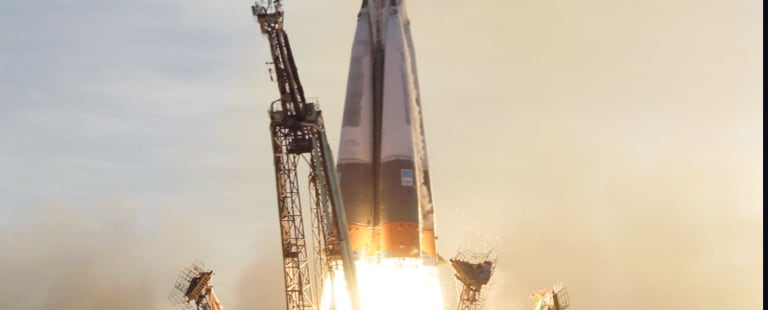
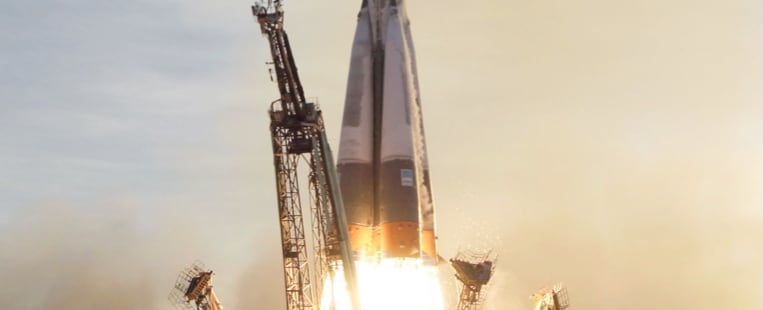
technology build out completed

diff --git a/src/Styles/Technology.module.scss b/src/Styles/Technology.module.scss
@@ -22,25 +22,47 @@
     .imageContainer {
         margin-top: 32px;
         height: 170px;
-        width: 100%;
         img {
             height: 100%;
-            left: 50%;
-            margin-left: -50vw;
-            margin-right: -50vw;
-            max-width: 100vw;
-            position: relative;
-            right: 50%;
-            width: 100vw;
+            width: 100%;
         }
     }
 
     .technologySelect {
+        width: 152px;
+        display: flex;
+        justify-content: space-between;
+        margin-top: 32px;
+        margin-left: auto;
+        margin-right: auto;
         
         .selectButton {
             height: 40px;
             width: 40px;
         }
+    }
+
+    .technologyCopy {
+        margin-top: 26px;
+        margin-left: 24px;
+        margin-right: 24px;
+        text-align: center;
+        h3 {
+            margin-top: 8px;
+            font-size: 24px;
+            text-transform: uppercase;
+            color: rgba(255,255,255,1);
+            line-height: 27.5px;
+        }
+
+        h5 {
+            font-size: 14px;
+        }
+
+        p {
+            margin-top: 16px;
+        }
+
     }
 
 }

diff --git a/src/App.scss b/src/App.scss
@@ -1,4 +1,4 @@
-@import url('https://fonts.googleapis.com/css2?family=Barlow+Condensed:wght@400;700&family=Barlow:wght@400;700&family=Bellefair&display=swap');
+@import url('https://fonts.googleapis.com/css2?family=Barlow+Condensed:wght@300;400;700&family=Barlow:wght@300;400;700&family=Bellefair&display=swap');
 
 // @import url('https://fonts.googleapis.com/css2?family=Barlow&family=Barlow+Condensed&family=Bellefair&display=swap');
 
@@ -76,7 +76,7 @@ h5 {
     font-family: 'Barlow Condensed', sans-serif;
     font-size: 28px;
     letter-spacing: 4px;
-    font-weight: 400;
+    font-weight: 300;
     line-height: 34px;
     color: rgba(208,214,249, 1);
 }
@@ -99,7 +99,7 @@ h5 {
 p {
     font-family: 'Barlow', sans-serif;
     font-size: 18px;
-    font-weight: 400;
+    font-weight: 300;
     line-height: 32px;
     color: rgba(208,214,249, 1);
 }

diff --git a/src/Pages/Technology.js b/src/Pages/Technology.js
@@ -20,8 +20,10 @@ export function Technology() {
                 <button className={styles.selectButton}><h4>3</h4></button>
             </div>
 
-            <div>
-
+            <div className={styles.technologyCopy}>
+                <h5>THE TERMINOLOGY...</h5>
+                <h3>Launch Vehicle</h3>
+                <p>A launch vehicle or carrier rocket is a rocket-propelled vehicle used to carry a payload from Earth's surface to space, usually to Earth orbit or beyond. Our WEB-X carrier rocket is the most powerful in operation. Standing 150 metres tall, it's quite an awe-inspiring sight on the launch pad!</p>
             </div>
 
 

diff --git a/src/App.js b/src/App.js
@@ -39,7 +39,7 @@ function App() {
         <div className={mainClass}>
             <Header />
 
-            <main className={styles.main}>
+            <main className={location.pathname === '/technology' ? styles.mainTechnology : styles.main}>
             <Routes>
                 <Route path="/" element={<Home />} />
                 <Route path="destination" element={<Destination />} />

diff --git a/src/Styles/Main.module.scss b/src/Styles/Main.module.scss
@@ -52,6 +52,15 @@
         margin-bottom: 56px;
         align-items: unset;
     }
+
+    .mainTechnology {
+        align-items: unset;
+        margin-top: unset;
+        margin-left: unset;
+        margin-right: unset;
+        margin-bottom: 56px;
+        
+    }
 }
 
 
